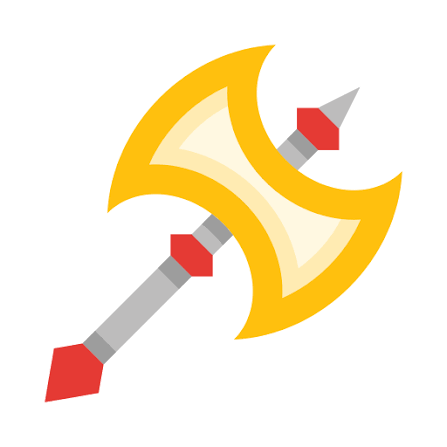
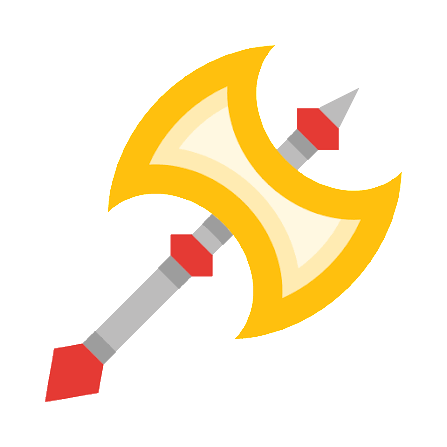
Strip the axe background and add a letter tracing sheet
The supplied axe was a palette PNG with no transparency chunk at all, so
it carried a solid white background. strip-background.swift removes it by
flood-filling inward from the edges rather than keying out light pixels
globally — a global key would punch holes through the cream bevel inside
the blade. Edge pixels get partial alpha so the silhouette stays soft.
75.9% of the image cleared; both the art and its 44px fallback are now
RGBA.

The tool is kept because player-uploaded images will need exactly this,
and it is a reasonable fallback if Remove.bg is unavailable.

Also adds a tracing sheet: every glyph at matched scale on a light grid,
for marking up corrections by hand (npm run gen:sheet).

png-to-raw.swift decodes all glyphs in a single invocation — Node has no
PNG decoder available here, `swift` recompiles the script on every run,
and piping raw pixels back through stdout overflows the buffer.

diff --git a/scripts/strip-background.swift b/scripts/strip-background.swift
@@ -1,0 +1,72 @@
+// Removes the flat background from a PNG, in place.
+//
+//   swift scripts/strip-background.swift <file.png> [luminance-threshold]
+//
+// Flood-fills inward from the edges rather than keying out light pixels
+// globally, so pale areas INSIDE the artwork survive — the axe's cream bevel
+// would be punched full of holes by a naive white-key.
+//
+// macOS only (AppKit). Also useful later for player-uploaded images.
+
+import Foundation
+import AppKit
+
+let args = CommandLine.arguments
+guard args.count > 1 else {
+    FileHandle.standardError.write("usage: strip-background.swift <file.png> [threshold]\n".data(using: .utf8)!)
+    exit(2)
+}
+let path = args[1]
+let threshold = args.count > 2 ? Int(args[2]) ?? 236 : 236
+
+guard let img = NSImage(contentsOfFile: path) else { fatalError("cannot open \(path)") }
+var rect = CGRect(origin: .zero, size: img.size)
+guard let cg = img.cgImage(forProposedRect: &rect, context: nil, hints: nil) else {
+    fatalError("cannot decode \(path)")
+}
+
+let w = cg.width, h = cg.height
+var px = [UInt8](repeating: 0, count: w * h * 4)
+let ctx = CGContext(data: &px, width: w, height: h, bitsPerComponent: 8,
+                    bytesPerRow: w * 4, space: CGColorSpaceCreateDeviceRGB(),
+                    bitmapInfo: CGImageAlphaInfo.premultipliedLast.rawValue)!
+ctx.draw(cg, in: CGRect(x: 0, y: 0, width: w, height: h))
+
+@inline(__always) func lum(_ i: Int) -> Int {
+    (299 * Int(px[i]) + 587 * Int(px[i + 1]) + 114 * Int(px[i + 2])) / 1000
+}
+
+// Flood fill from every edge pixel.
+var seen = [Bool](repeating: false, count: w * h)
+var stack: [Int] = []
+for x in 0..<w { stack.append(x); stack.append((h - 1) * w + x) }
+for y in 0..<h { stack.append(y * w); stack.append(y * w + w - 1) }
+
+// Anything lighter than this is background-ish; the band below `threshold`
+// gets partial alpha so edges stay soft instead of jagged.
+let soft = threshold - 40
+var cleared = 0
+
+while let p = stack.popLast() {
+    if seen[p] { continue }
+    let i = p * 4
+    let l = lum(i)
+    if l < soft { continue }                 // reached the artwork
+    seen[p] = true
+    px[i + 3] = l >= threshold ? 0 : UInt8(max(0, min(255, (threshold - l) * 255 / 40)))
+    if px[i + 3] == 0 { cleared += 1 }
+    let x = p % w, y = p / w
+    if x > 0 { stack.append(p - 1) }
+    if x < w - 1 { stack.append(p + 1) }
+    if y > 0 { stack.append(p - w) }
+    if y < h - 1 { stack.append(p + w) }
+}
+
+let out = CGContext(data: &px, width: w, height: h, bitsPerComponent: 8,
+                    bytesPerRow: w * 4, space: CGColorSpaceCreateDeviceRGB(),
+                    bitmapInfo: CGImageAlphaInfo.premultipliedLast.rawValue)!
+let rep = NSBitmapImageRep(cgImage: out.makeImage()!)
+try! rep.representation(using: .png, properties: [:])!.write(to: URL(fileURLWithPath: path))
+
+let pct = Double(cleared) / Double(w * h) * 100
+print(String(format: "%@: cleared %d px (%.1f%% of %dx%d)", (path as NSString).lastPathComponent, cleared, pct, w, h))

diff --git a/scripts/png-to-raw.swift b/scripts/png-to-raw.swift
@@ -1,0 +1,38 @@
+// Decodes PNGs to raw RGBA sidecar files: <input>.raw, laid out as
+// width (u32 LE), height (u32 LE), then RGBA pixels.
+//
+//   swift scripts/png-to-raw.swift out/ a.png b.png ...
+//
+// Node has no PNG decoder available here and the raster lib only writes. All
+// files are handled in one invocation because `swift` compiles the script on
+// every run, and piping raw pixels back through stdout overflows the buffer.
+
+import Foundation
+import AppKit
+
+let args = CommandLine.arguments
+guard args.count > 2 else { exit(2) }
+let outDir = args[1]
+try? FileManager.default.createDirectory(atPath: outDir, withIntermediateDirectories: true)
+
+for path in args.dropFirst(2) {
+    guard let img = NSImage(contentsOfFile: path) else { continue }
+    var r = CGRect(origin: .zero, size: img.size)
+    guard let cg = img.cgImage(forProposedRect: &r, context: nil, hints: nil) else { continue }
+    let w = cg.width, h = cg.height
+    var px = [UInt8](repeating: 0, count: w * h * 4)
+    let ctx = CGContext(data: &px, width: w, height: h, bitsPerComponent: 8, bytesPerRow: w * 4,
+                        space: CGColorSpaceCreateDeviceRGB(),
+                        bitmapInfo: CGImageAlphaInfo.premultipliedLast.rawValue)!
+    ctx.draw(cg, in: CGRect(x: 0, y: 0, width: w, height: h))
+
+    var data = Data()
+    var wv = UInt32(w).littleEndian, hv = UInt32(h).littleEndian
+    withUnsafeBytes(of: &wv) { data.append(contentsOf: $0) }
+    withUnsafeBytes(of: &hv) { data.append(contentsOf: $0) }
+    data.append(Data(px))
+
+    let name = ((path as NSString).lastPathComponent as NSString).deletingPathExtension
+    try! data.write(to: URL(fileURLWithPath: "\(outDir)/\(name).raw"))
+}
+print("decoded \(args.count - 2) files")
